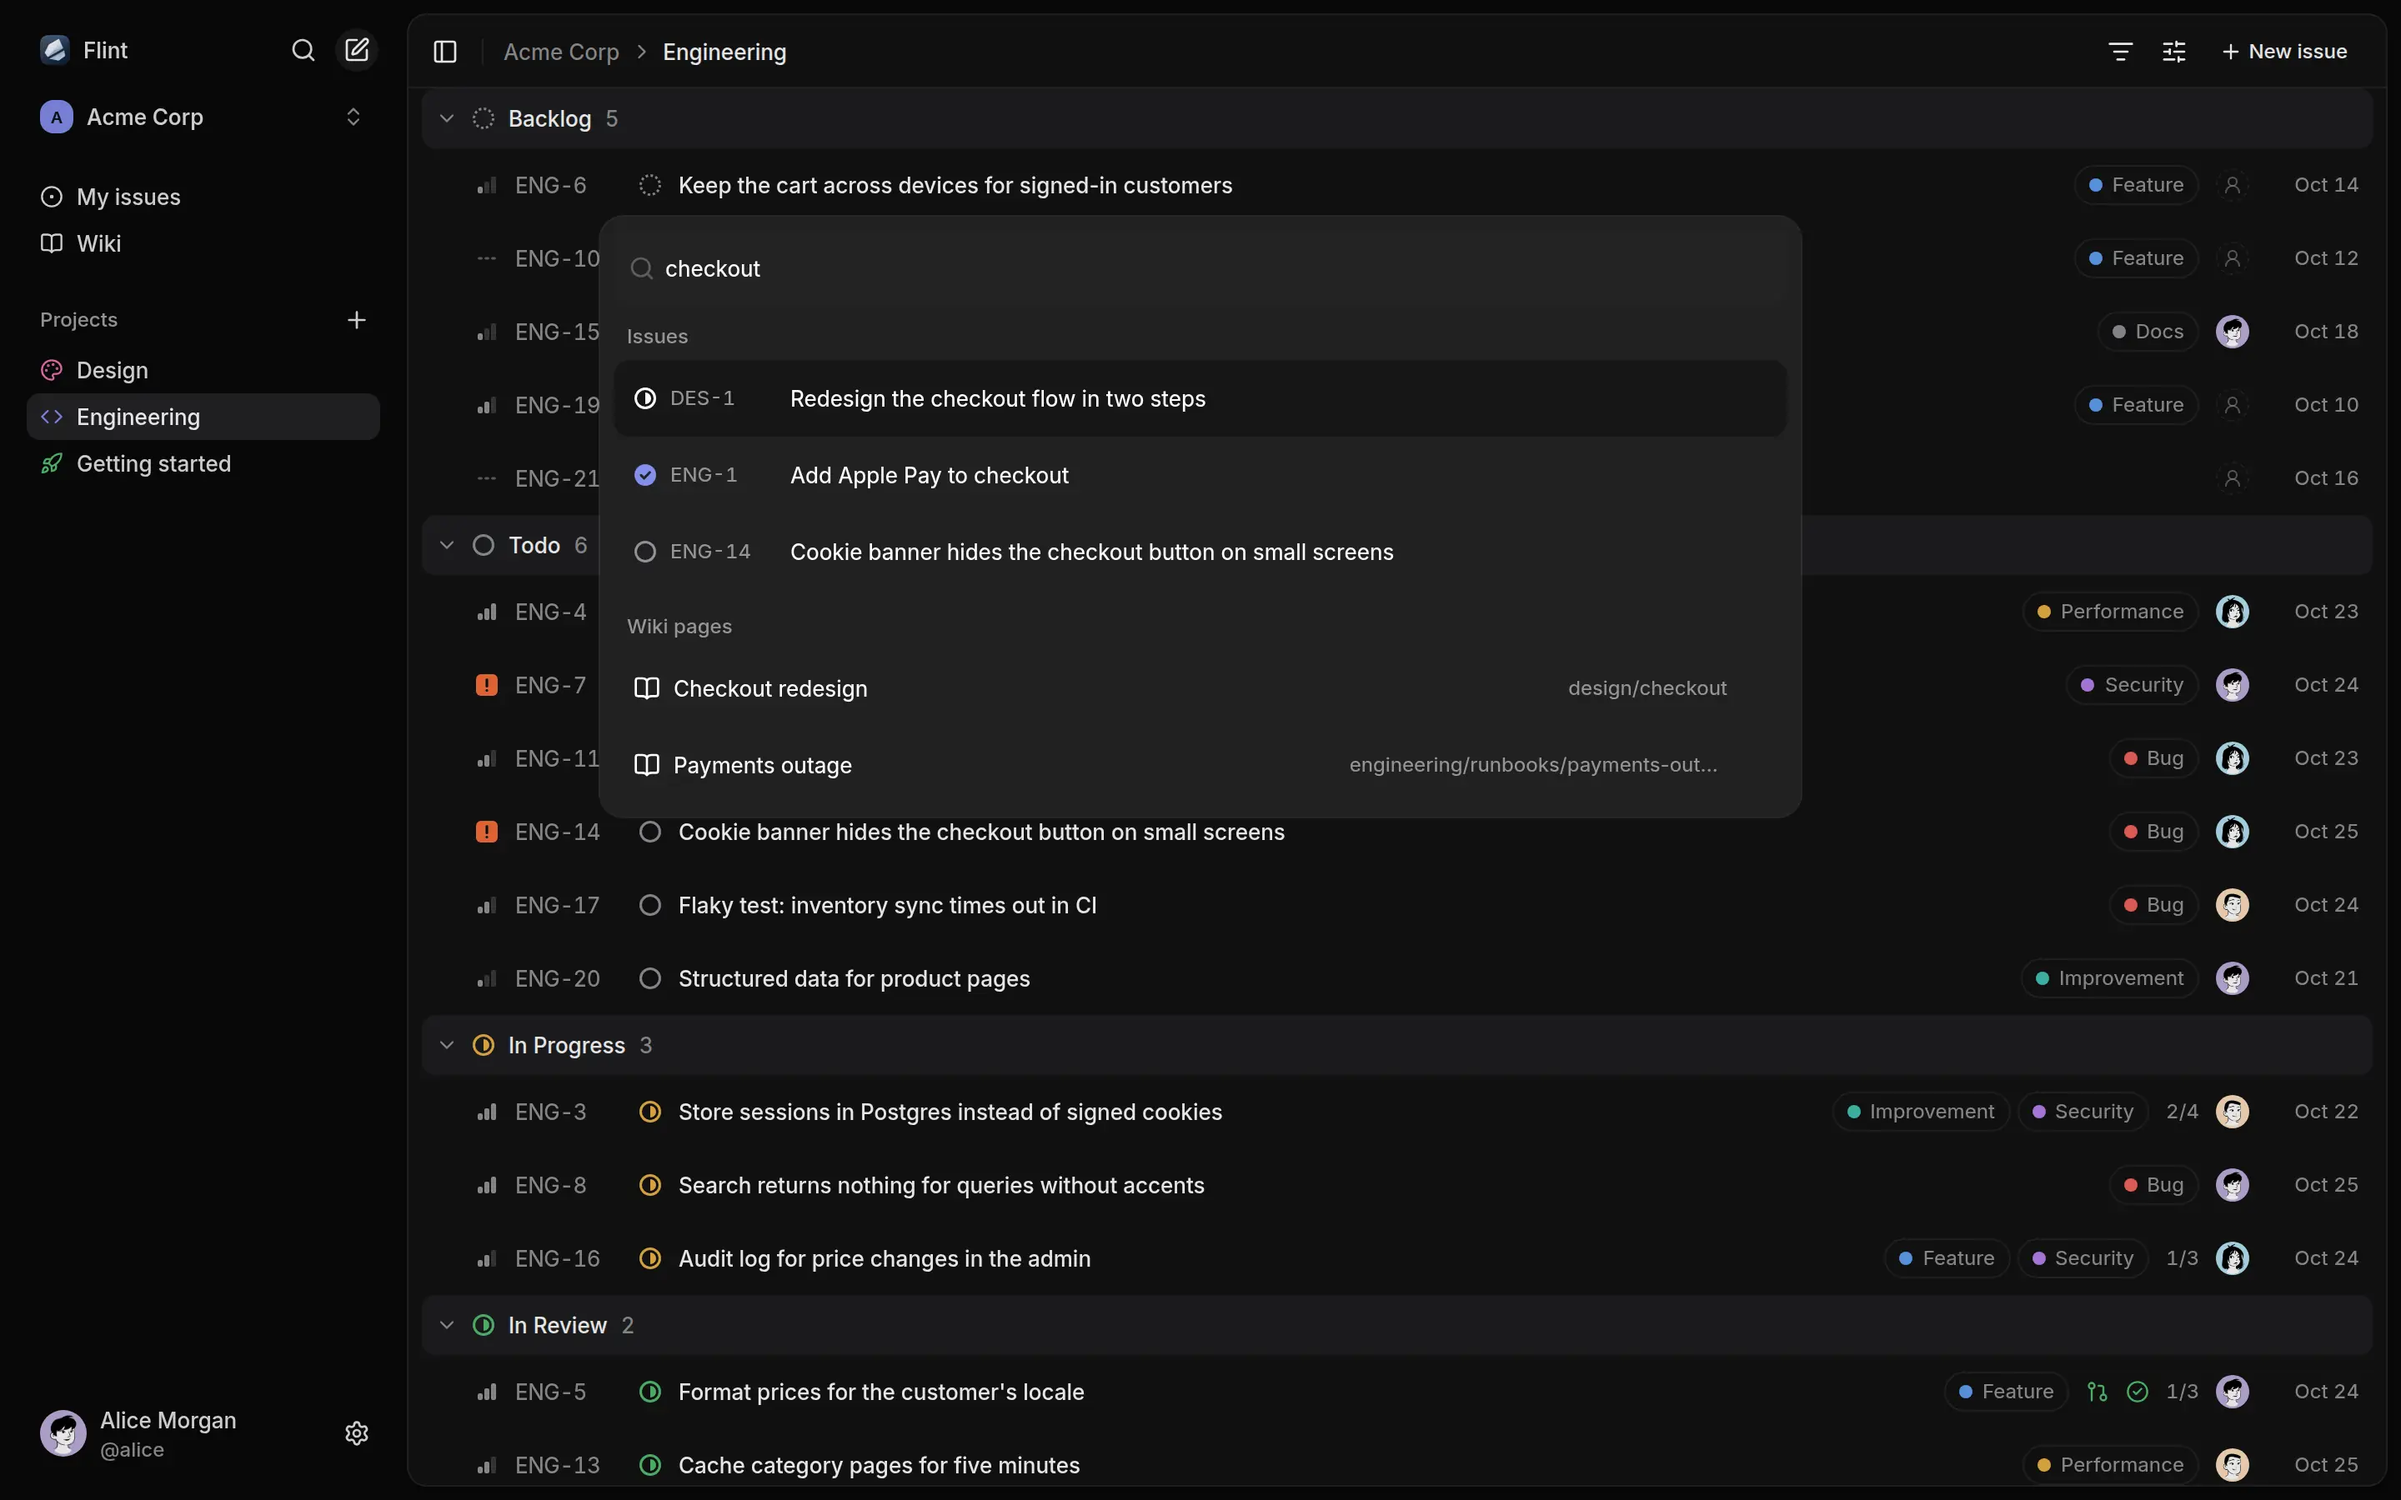
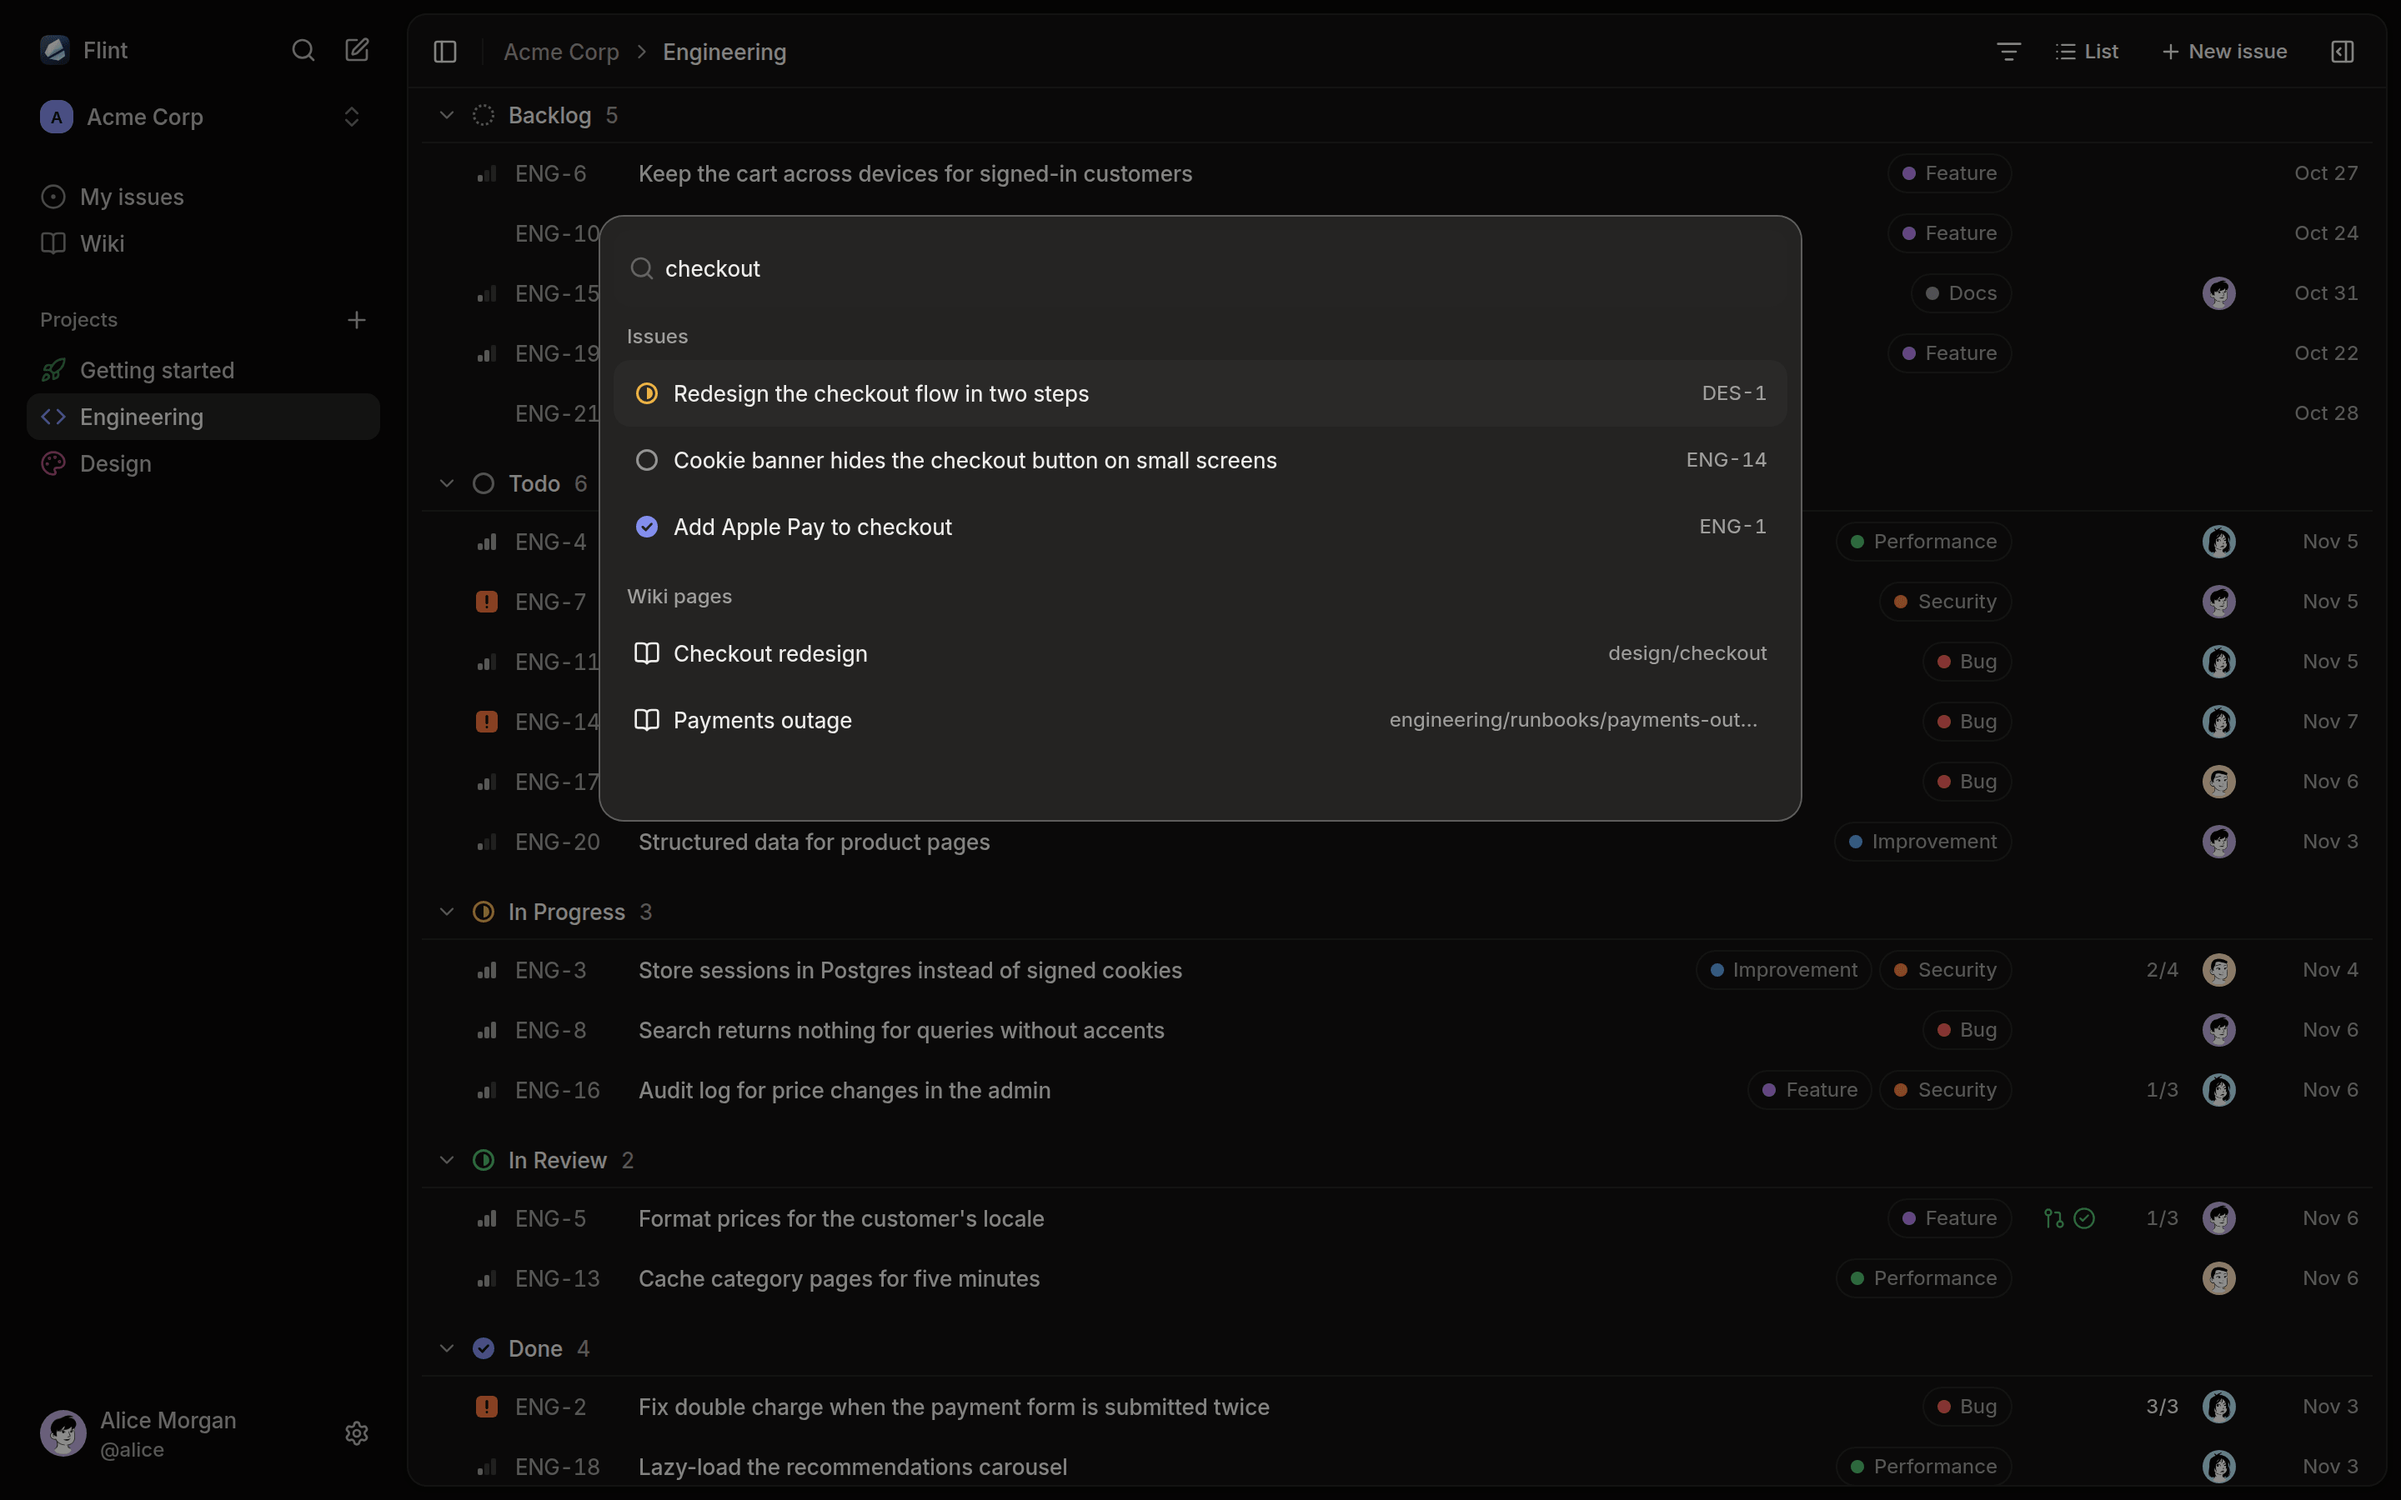
FLN-25 Retake the README and demo screenshots in the current UI (#86)
* FLN-25 Retake the README and demo screenshots in the current UI

* Keep the old screenshot when Tinify fails

diff --git a/assets/README.md b/assets/README.md
@@ -8,3 +8,13 @@ bun scripts/dev/export-brand.ts
 ```
 
 The main README shows `screenshots/`. The image ships them too, because the Getting started page of a workspace created with demo data reads them from `assets/screenshots` in the server's working directory.
+
+To retake the screenshots, run Flint with `bun run demo` data (a worktree can use its own database, see [docs/development.md](../docs/development.md#worktrees)) and sign `agent-browser` in as `alice` at `set viewport 1440 900 2` and `set media dark`. Capture PNGs of the Engineering project in board layout (`board`), the Cmd+K menu searching `checkout` over the list layout (`search`), the full page of ENG-5 while a second session as `bob` has it open (`issue`) and `engineering/architecture` with its wiki folder expanded (`wiki`); blur the focused element and keep the pointer off the page. Convert each PNG once with Tinify, which keeps the 2880 × 1800 size:
+
+```sh
+for f in board issue search wiki; do
+  url=$(curl -fsS --user "api:$TINIFY_API_KEY" --data-binary @"$f.png" -D - -o /dev/null https://api.tinify.com/shrink | tr -d '\r' | awk 'tolower($1) == "location:" { print $2 }')
+  curl -fsS --user "api:$TINIFY_API_KEY" -H 'Content-Type: application/json' -d '{"convert":{"type":"image/webp"}}' -o "$f.webp" "$url" &&
+    mv "$f.webp" "assets/screenshots/$f.webp"
+done
+```
